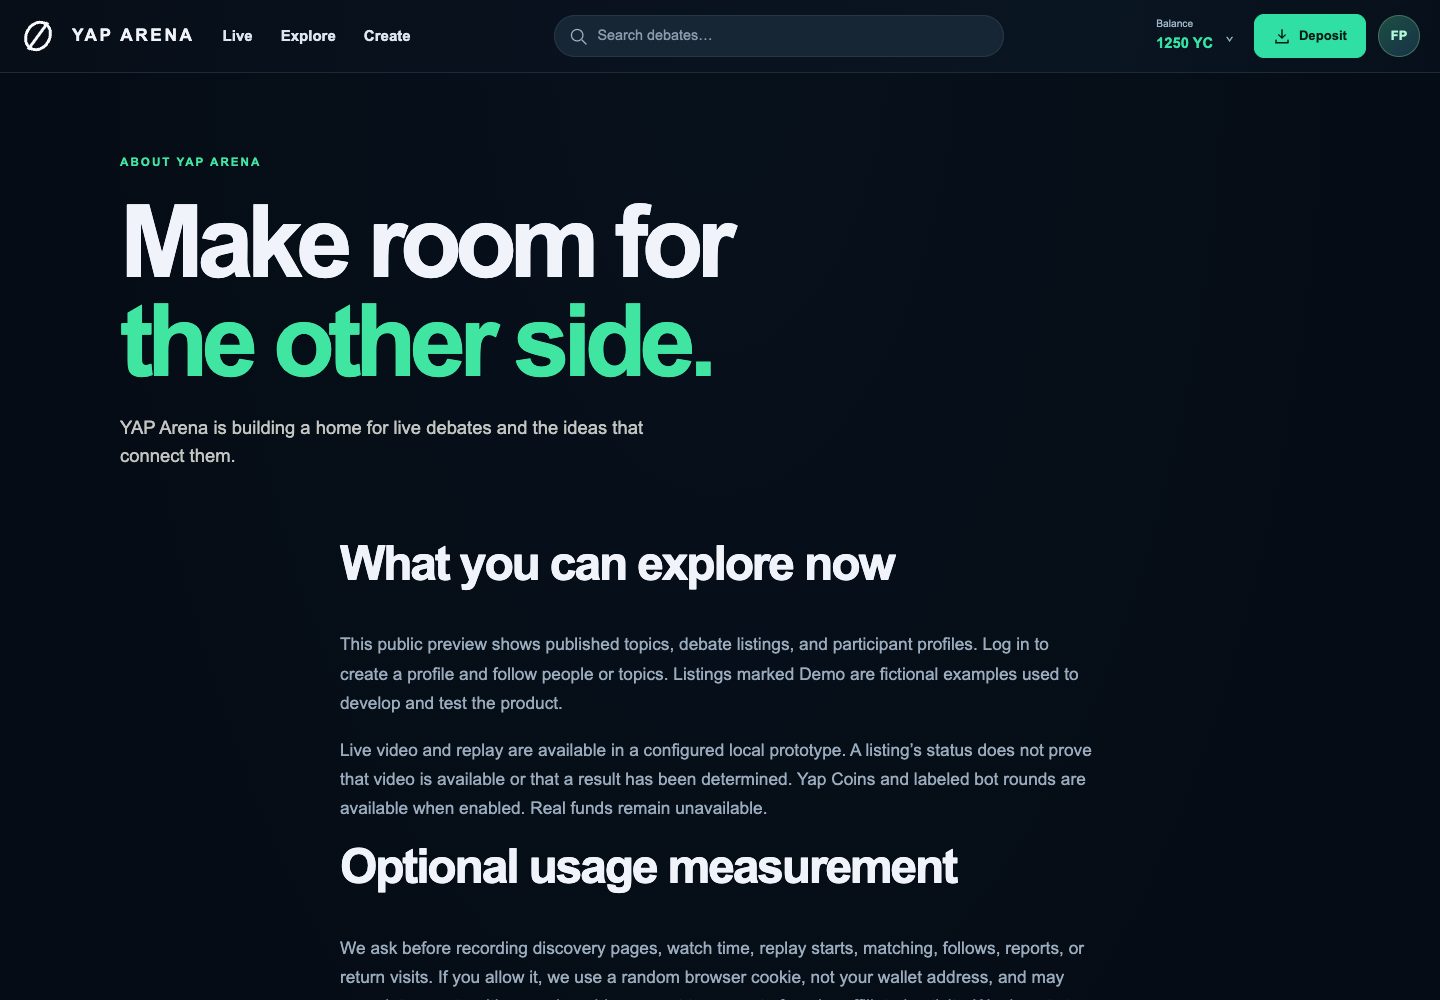
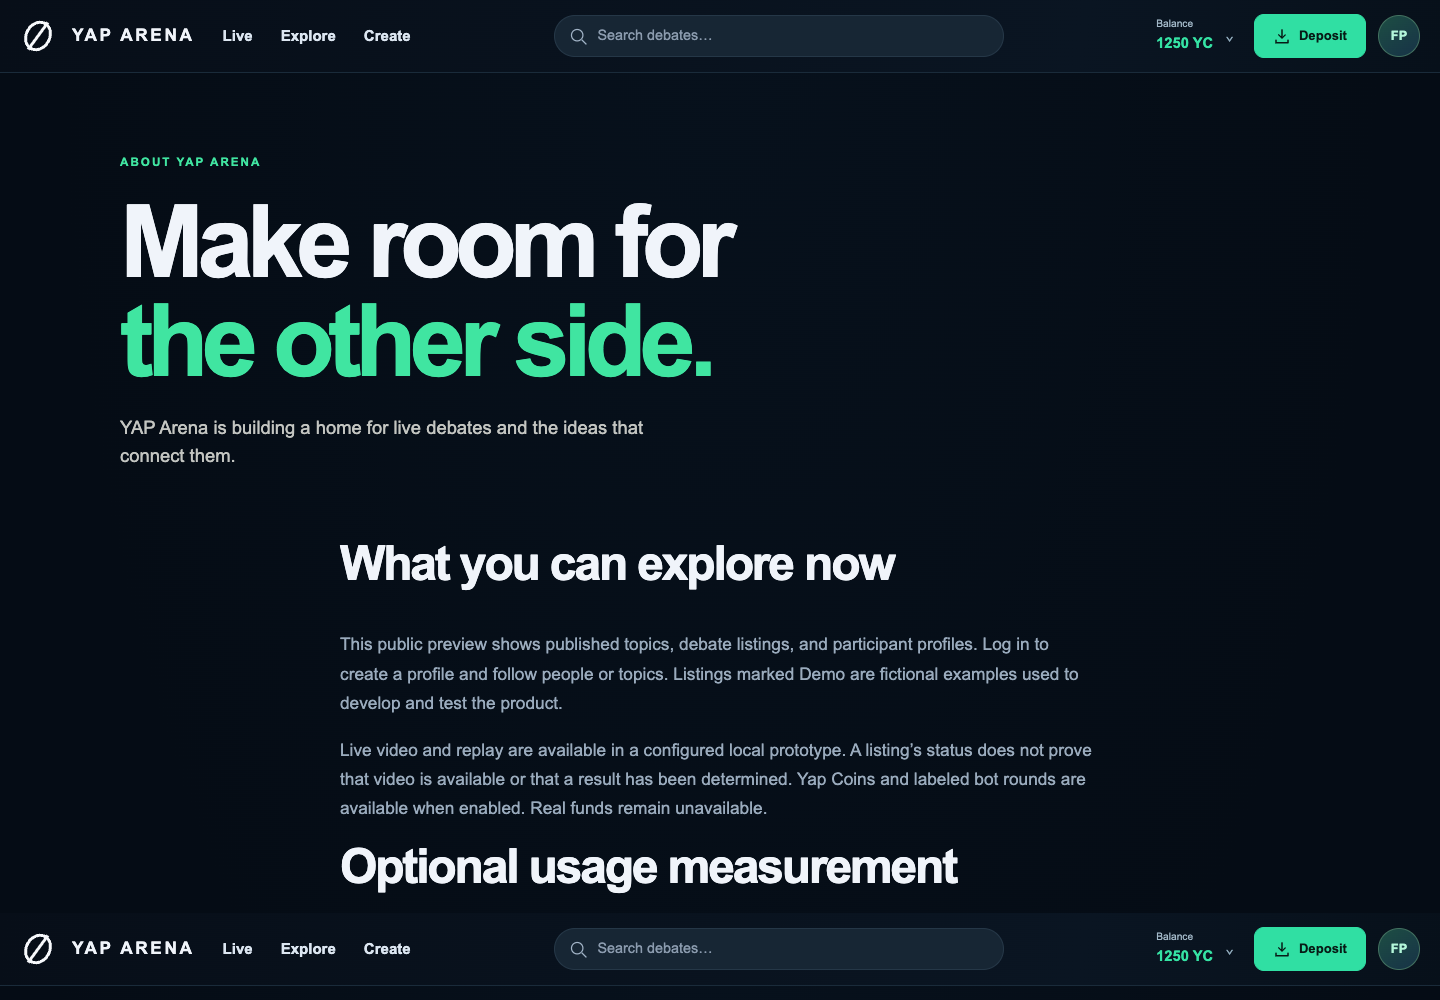
Reflow shared header at increased zoom

Changed region(s): [[0.1562, 0.93, 0.75, 0.992], [0.7812, 0.93, 1.0, 0.992], [0.0, 0.93, 0.125, 0.961]]

diff --git a/scripts/verify-email-auth-browser.ts b/scripts/verify-email-auth-browser.ts
@@ -176,6 +176,30 @@ try {
       }
     });
     const page = await context.newPage();
+    async function checkHeaderZoom(state: "guest" | "member") {
+      if (name !== "desktop") return;
+      await page.setViewportSize({ width: 1280, height: 900 });
+      await page.evaluate(() => {
+        document.documentElement.style.zoom = "2";
+      });
+      try {
+        assert.equal(
+          await page.evaluate(
+            () => document.documentElement.scrollWidth <= innerWidth + 1,
+          ),
+          true,
+          `${state} header reflows at 200% zoom`,
+        );
+        await page.locator("[data-site-header]").screenshot({
+          path: resolve(directory, `header-${state}-zoom.png`),
+        });
+      } finally {
+        await page.evaluate(() => {
+          document.documentElement.style.zoom = "";
+        });
+        await page.setViewportSize(viewport);
+      }
+    }
     page.on("pageerror", (error) => errors.push(error.message));
     const requests: { path: string; status: number }[] = [];
     page.on("response", (response) =>
@@ -617,6 +641,7 @@ try {
       path: resolve(directory, `header-guest-${name}.png`),
       fullPage: false,
     });
+    await checkHeaderZoom("guest");
     await login.click();
     const authModal = page.locator("#site-auth-dialog");
     await authModal
@@ -709,6 +734,7 @@ try {
         "1250 YC",
     );
     await page.evaluate(() => window.scrollTo(0, 0));
+    await checkHeaderZoom("member");
     await page.screenshot({
       path: resolve(directory, `header-member-${name}.png`),
       fullPage: false,

diff --git a/public/site-header.css b/public/site-header.css
@@ -1,4 +1,5 @@
 .site-header {
+  container: site-header / inline-size;
   background: linear-gradient(100deg, #070e18, #0a1522 75%, #07101a);
   border-color: #1a2b3a;
   position: relative;
@@ -805,5 +806,56 @@
   }
   .site-auth-dialog .auth-card h2 {
     font-size: 1.6rem;
+  }
+}
+
+/* CSS zoom reduces available layout space without changing viewport queries. */
+@container site-header (max-width: 920px) {
+  .site-header .arena-nav {
+    grid-template-columns: minmax(0, 1fr) auto;
+    gap: 10px 18px;
+    padding-block: 12px;
+  }
+  .site-header .arena-nav nav {
+    grid-column: 1 / -1;
+    grid-row: 2;
+    width: 100%;
+    margin: 0;
+    justify-content: space-between;
+  }
+  .site-header .arena-header-account {
+    grid-row: 1;
+    grid-column: 2;
+    min-width: 0;
+  }
+  .site-header .arena-header-search {
+    grid-row: 3;
+    grid-column: 1 / -1;
+    max-width: none;
+  }
+}
+@container site-header (max-width: 560px) {
+  .header-auth-actions,
+  .header-member-actions {
+    gap: 8px;
+  }
+  .header-login,
+  .header-signup,
+  .header-deposit {
+    padding: 11px 13px;
+    font-size: 0.75rem;
+  }
+  .site-header[data-session="member"] .brand span {
+    display: none;
+  }
+  .site-header .arena-wallet-menu > summary {
+    padding: 4px 5px;
+  }
+  .site-header [data-header-balance] {
+    font-size: 0.82rem;
+  }
+  .site-header .arena-avatar {
+    width: 38px;
+    height: 38px;
   }
 }

diff --git a/docs/evidence/shared-header/README.md b/docs/evidence/shared-header/README.md
@@ -75,3 +75,48 @@ DATABASE_TEST_MODE=host npm run verify:browser
 
 The public app ID is sufficient for the first command. Do not load an operator
 environment or app secret into a browser test or runtime process.
+
+The [complete release gate](release-results.json) passed on `9c19585`: 528 tests,
+zero skips, 94.30% line / 92.88% branch / 95.63% function coverage; fresh/upgrade
+SQL isolation, account/A4/workspace/shared-data browsers, homepage and Live/replay
+preview checks all passed. Two earlier gate runs stopped at assertions for the
+removed homepage nav/account link. Those assertions now exercise the shared Live
+link and no-JavaScript Log in fallback. A sandbox attempt could not initialize
+PostgreSQL shared memory; the recorded successful gate used permitted native
+PostgreSQL 17 outside that sandbox, with disposable owner/runtime identities.
+The optional historical original-export geometry comparison was not requested;
+this authorized design change does not claim parity with that old header.
+
+CI's separate community browser found header overflow at 200% CSS zoom on the
+initial revision ([failed run](https://github.com/Boufe/YapArena/actions/runs/39345178262)).
+The follow-up uses container queries in addition to viewport fallbacks so layout
+responds to the space the header actually has. Focused synthetic
+[visitor](after/header-guest-zoom.png) and
+[member](after/header-member-zoom.png) checks now verify 1280 × 900 at 200% zoom.
+The community browser's existing zoom, narrow-screen, draft recovery, IME,
+reconnect, moderation and axe checks also pass locally. The full community soak
+and new GitHub CI run are recorded separately when complete.
+
+## Hosted observations
+
+The [deployment report](hosted-deployment.json) records the explicitly deployed
+staging revision, healthy public routes and anonymous session denial. No database
+reset, financial enablement, automatic deployment change or worker revision change
+is part of this rollout.
+
+Real anonymous [desktop](hosted-popup-desktop.png) and
+[mobile](hosted-popup-mobile.png) popup screenshots use fresh browser contexts
+with no interception. The [hosted browser report](hosted-anonymous.json) checks
+the shared header on seven public pages, zero provider requests before opening
+authentication, real provider/CAPTCHA initialization, exact initiating URLs and
+Back/Escape/Keep exploring dismissal with focus restoration. It records measured
+readiness and compressed transfer size; these workstation observations are not
+population-performance, successful login, inbox, physical-device or WCAG acceptance.
+The first hosted check matched both a header link and a hidden popup button;
+the corrected check scopes its selector to the header. No credential was submitted.
+
+The [read-only account postflight](hosted-accounts.json) verifies four preserved
+accounts, one verified provider identity and zero live money journals/grants.
+There is no active manual-account app session at this observation; its latest
+session deletion was 2026-10-19 22:49:55 UTC, before this rollout. Two consumed
+provider-session exchanges remain recorded. No acceptance identity was created.
